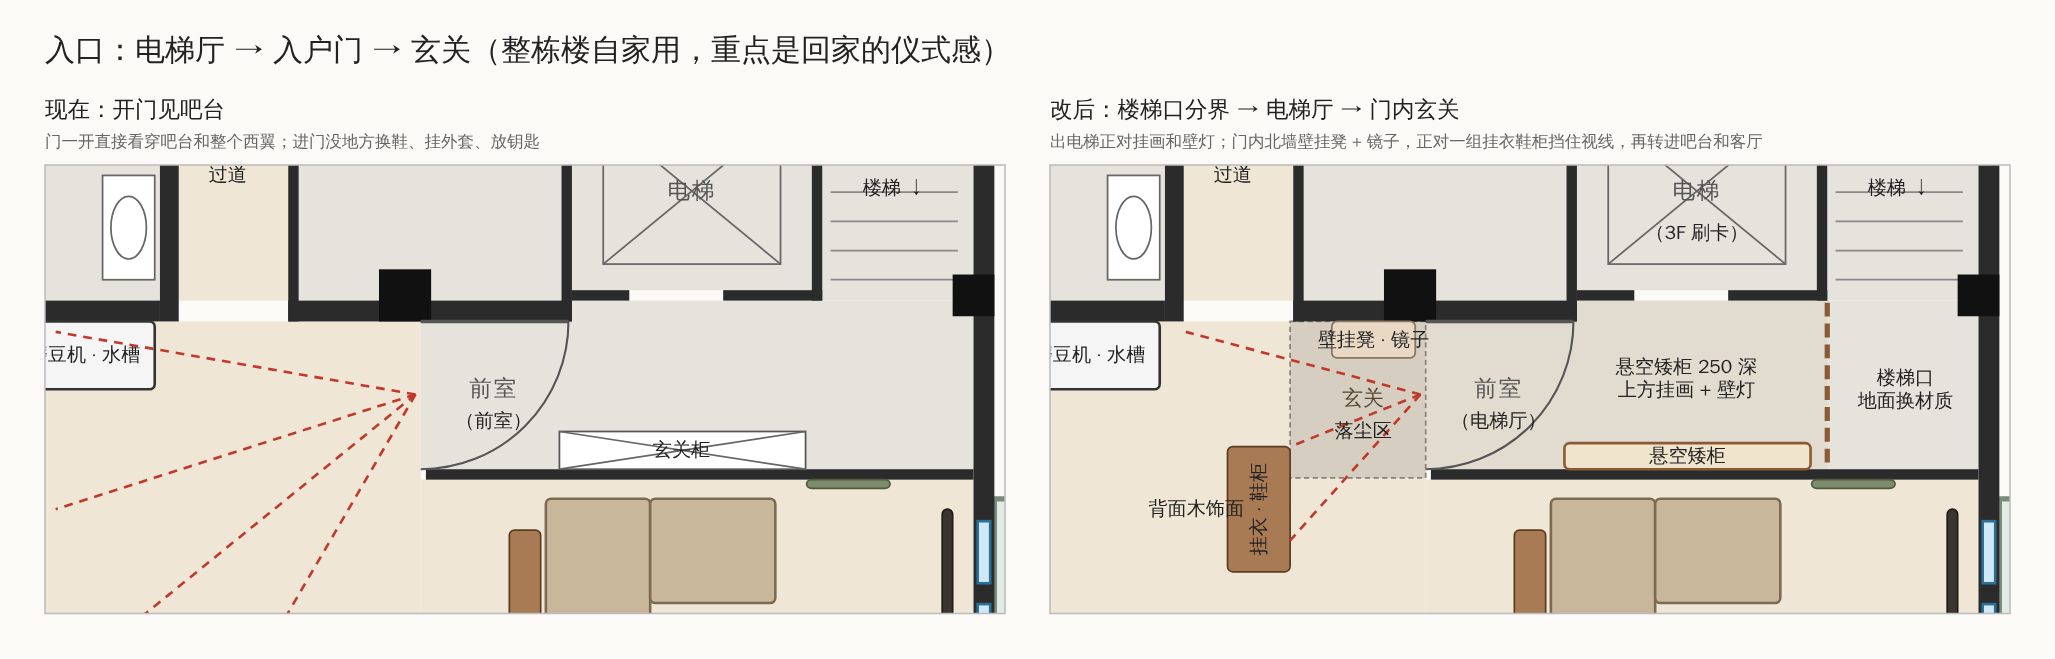
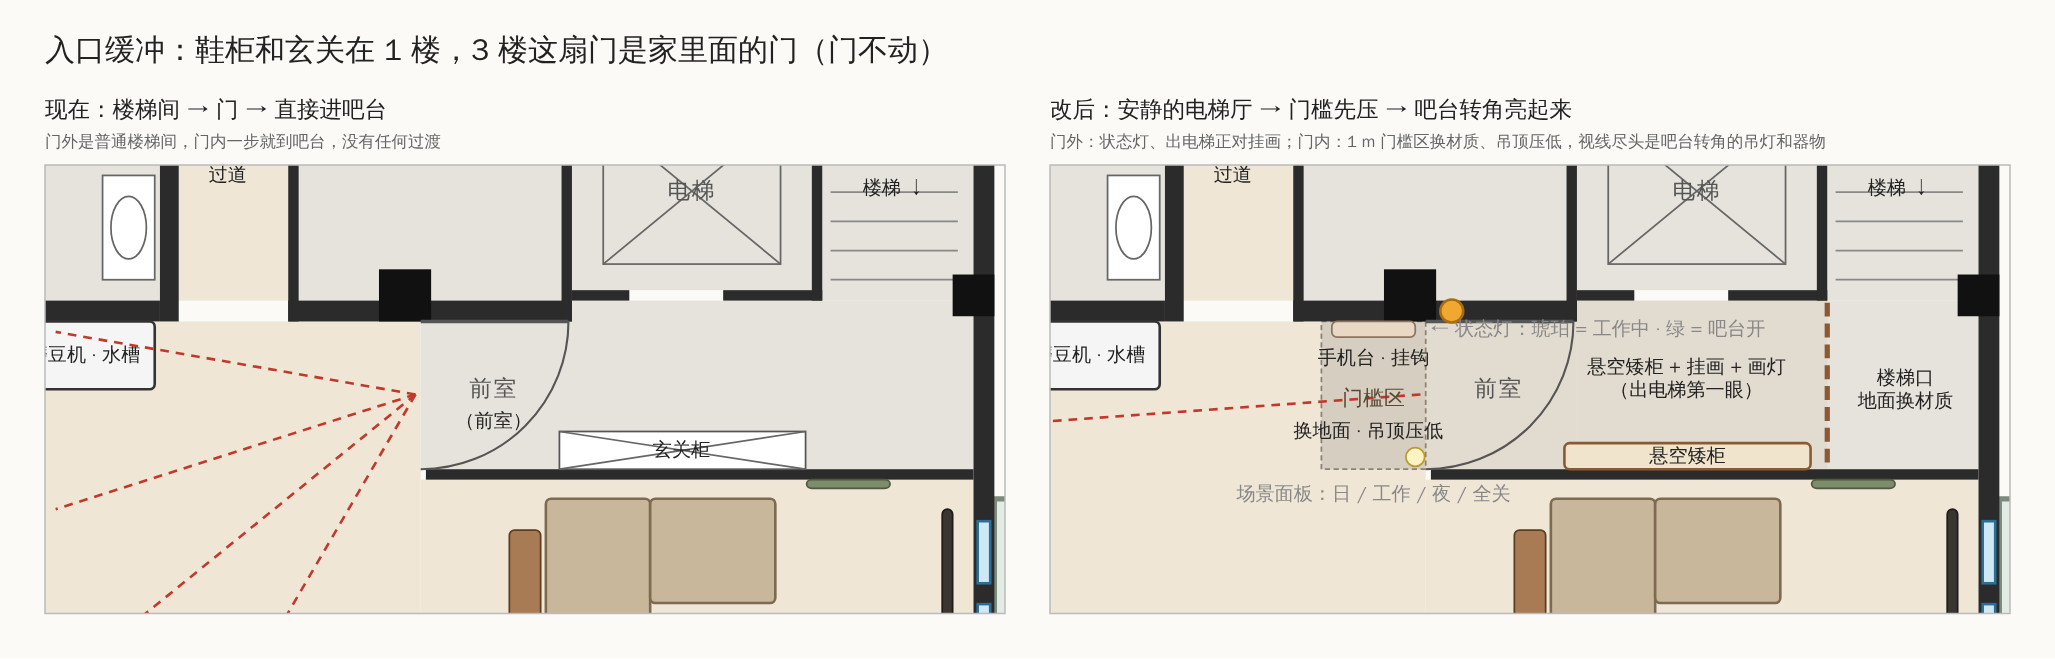
Floor plan A: rethink the entry as an in-house threshold
Shoes and the real foyer are at the 1F entrance, so drop the shoe bench
and coat cabinet. Keep the door as is; outside, a status light by the
door and the art-lit floating cabinet facing the lift; inside, a 1 m
threshold with a floor change and lowered ceiling, a slim phone/key
ledge with hooks, and a lighting scene panel, opening onto the bar
corner as the focal point.

Claude-Session: https://claude.ai/code/session_01UszicjF1djv9j8mqGC9SHb

diff --git a/loft-floor-plan/README.md b/loft-floor-plan/README.md
@@ -11,9 +11,9 @@ python3 floor_plan.py     # 生成 base / plan_a / plan_b / bar_options / entry_
 | --- | --- |
 | `floor_plan.py` | 建筑数据用图纸坐标（`DRAWING_*`），家具用转正后的平面坐标，渲染成 SVG |
 | `base.svg` / `.png` | 原图纸 + 铅笔修改（红色 = 划掉，橙色 = 新增） |
-| `plan_a.svg` / `.png` | 方案 A（推荐）：电梯厅 → 玄关 → 靠墙大 L 吧台；东半区客厅（东墙整面影音墙、大 L 沙发、东南角单人椅）；西窗坐榻；西翼南端 deep work |
+| `plan_a.svg` / `.png` | 方案 A（推荐）：门槛区先压后放 → 靠墙大 L 吧台；东半区客厅（东墙整面影音墙、大 L 沙发、东南角单人椅）；西窗坐榻；西翼南端 deep work |
 | `plan_b.svg` / `.png` | 方案 B：西翼新加一道电视墙隔开吧台和 lounge，东半区做工作室 |
-| `entry_detail.svg` / `.png` | 入口前后对比：楼梯口地面分界 → 电梯厅（悬空矮柜 + 挂画壁灯）→ 门内玄关（壁挂凳 + 镜子，挂衣鞋柜挡视线） |
+| `entry_detail.svg` / `.png` | 入口前后对比：鞋柜和玄关在 1 楼，3 楼的门不动；门外状态灯 + 挂画，门内 1 m 门槛区换材质、吊顶压低，视线尽头是吧台转角 |
 | `bar_options.svg` / `.png` | 吧台三种做法：① 靠墙大 L（推荐），② 后吧台 + L 形前台，③ 平行式 |
 
 ## 定位
@@ -25,6 +25,7 @@ python3 floor_plan.py     # 生成 base / plan_a / plan_b / bar_options / entry_
 - 音乐从电脑 / 手机推流到一对 JBL 4329P（有源）。4329P 跟客厅的大电视放在一起；
   原来的 55" 电视搬去董事长办公室，书桌换一台 32" 高分屏显示器
 - 储藏间保持原样，佛龛搬走
+- 真正的玄关和鞋柜在 1 楼入口，3 楼这扇门是家里面的门，门本身不动
 
 ## 入口
 
